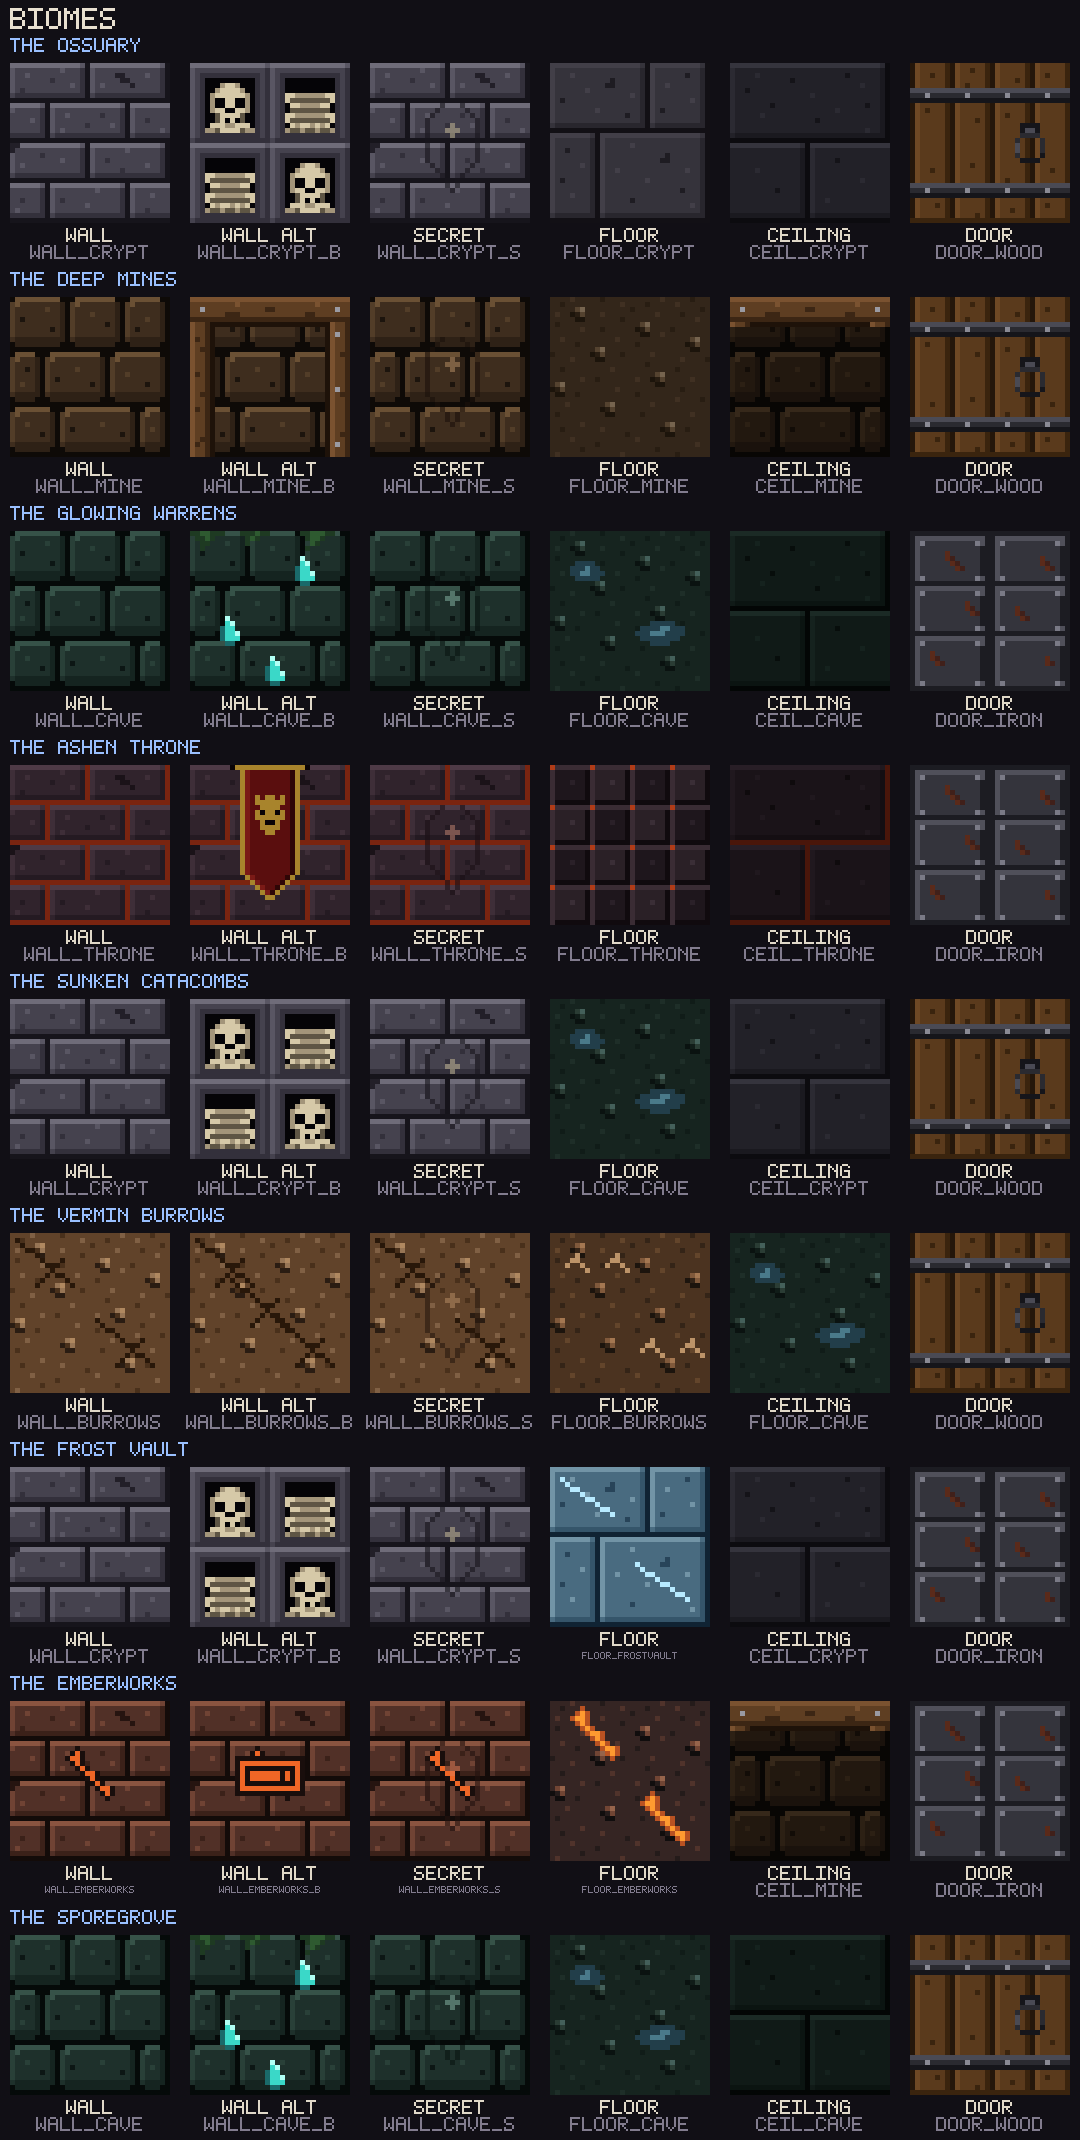
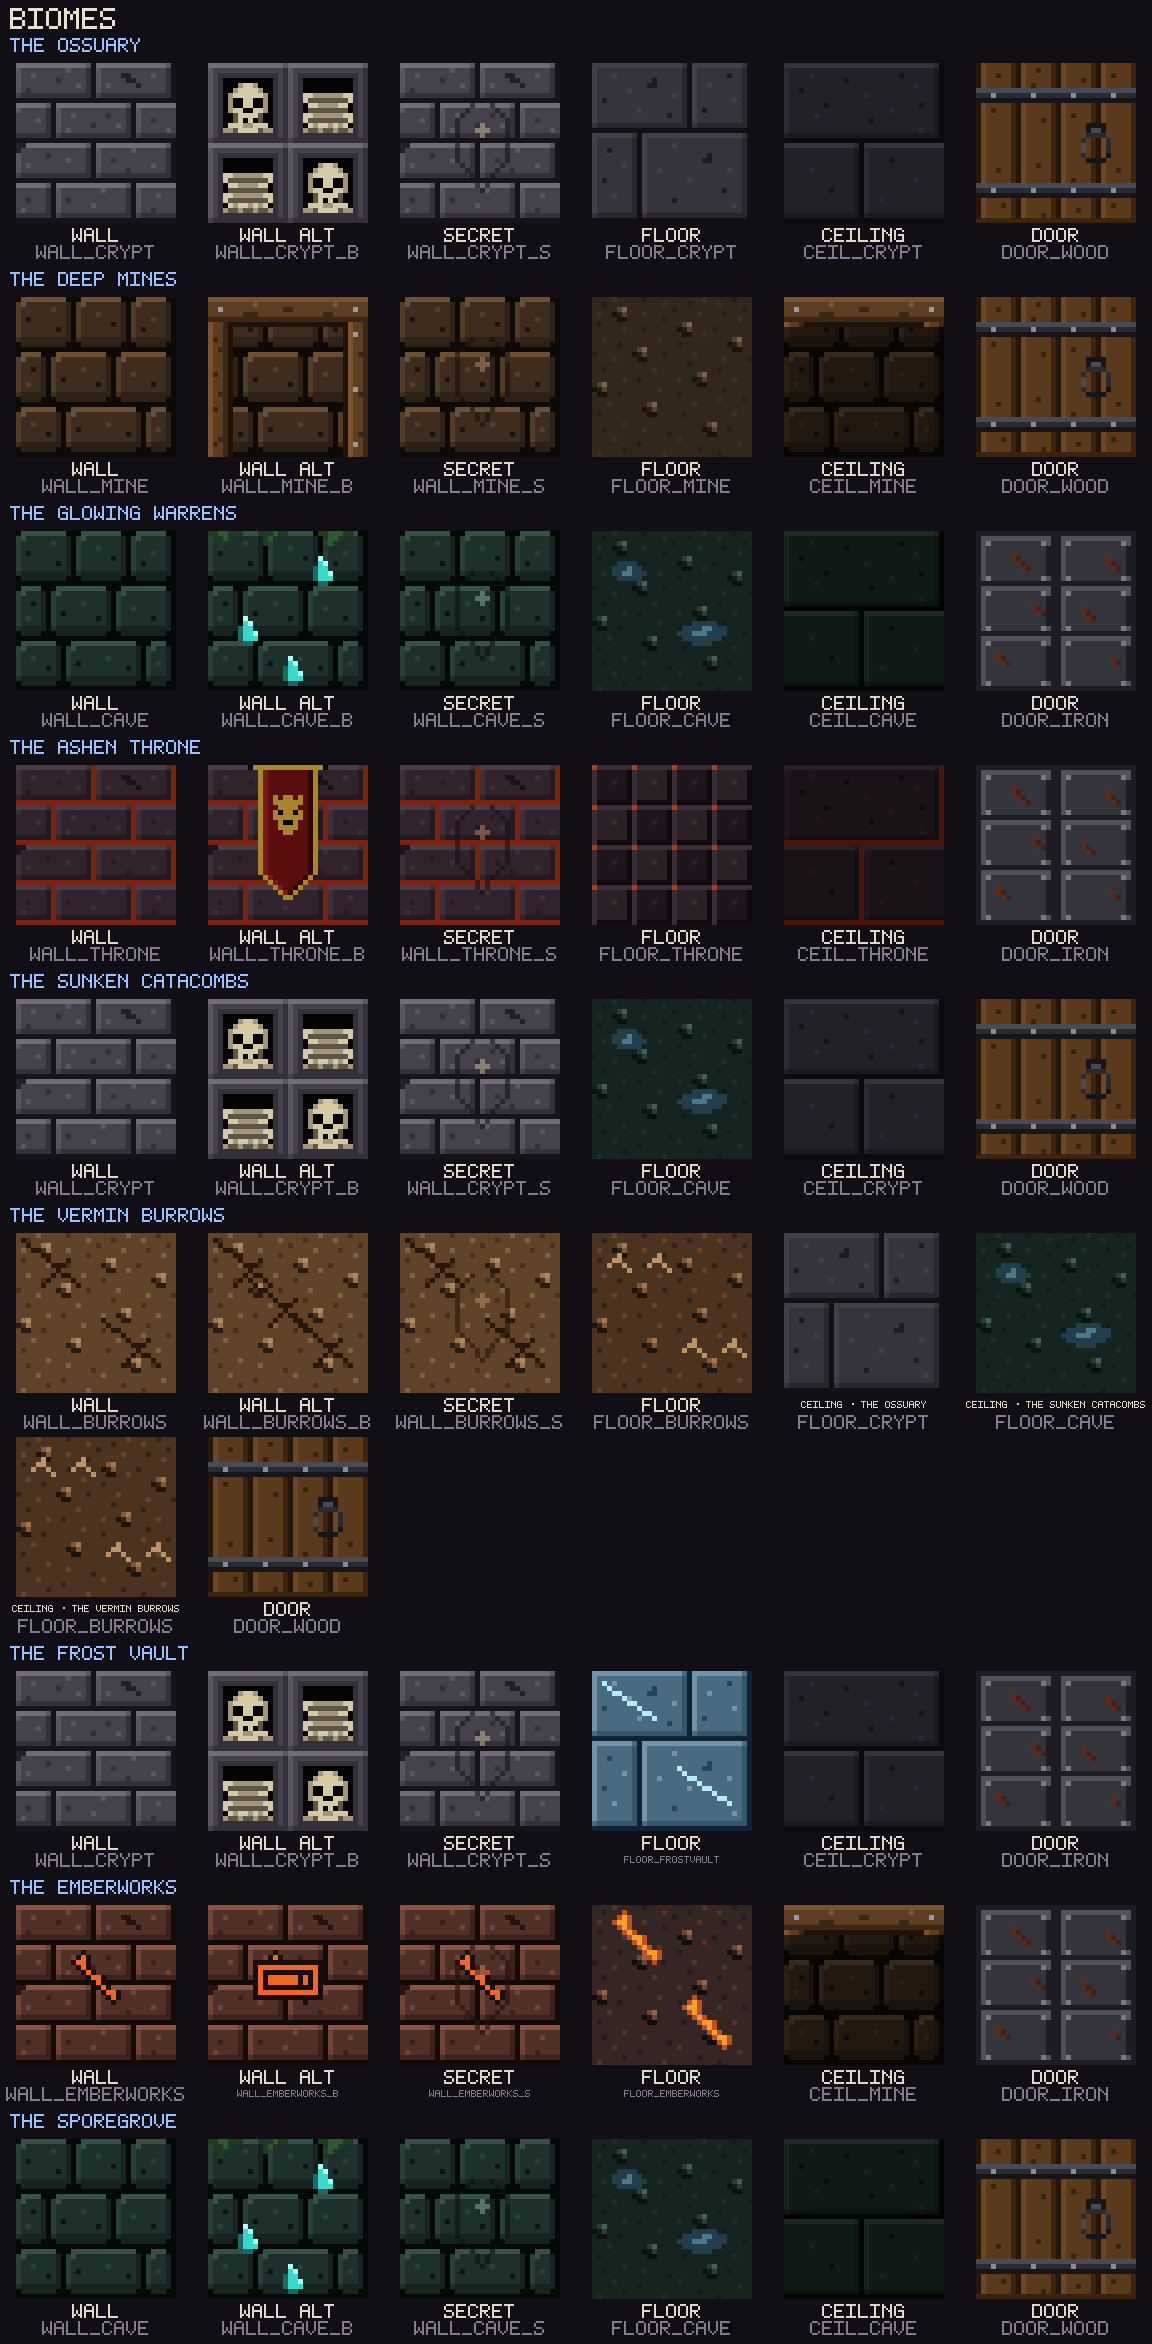
Use the preceding floor texture above Burrows

diff --git a/src/__tests__/biome-variety.test.ts b/src/__tests__/biome-variety.test.ts
@@ -1,5 +1,5 @@
 import { describe, expect, it } from 'vitest';
-import { BIOMES, biomeForDepth, biomeForFloor } from '../data/biomes';
+import { BIOMES, biomeForDepth, biomeForFloor, ceilingForFloor } from '../data/biomes';
 import { getArt } from '../art/registry';
 import { rasterize } from '../art/raster';
 import { generateFloor } from '../systems/dungeon';
@@ -32,9 +32,13 @@ describe('run biome variety', () => {
     expect(BIOMES.find((b) => b.id === 'burrows')!.wall).not.toBe(BIOMES.find((b) => b.id === 'emberworks')!.wall);
   });
 
-  it('carries the preceding catacombs floor into the burrows roof', () => {
-    const catacombs = BIOMES.find((b) => b.id === 'catacombs')!;
+  it('carries whatever preceding floor texture exists into the burrows roof', () => {
     const burrows = BIOMES.find((b) => b.id === 'burrows')!;
-    expect(burrows.ceiling).toBe(catacombs.floor);
+    const crypt = BIOMES.find((b) => b.id === 'crypt')!;
+    const catacombs = BIOMES.find((b) => b.id === 'catacombs')!;
+    const current = { biome: burrows.id, depth: 2 };
+    expect(ceilingForFloor(current, { biome: crypt.id, depth: 1 })).toBe(crypt.floor);
+    expect(ceilingForFloor(current, { biome: catacombs.id, depth: 1 })).toBe(catacombs.floor);
+    expect(ceilingForFloor(current)).toBe(burrows.ceiling);
   });
 });

diff --git a/src/data/biomes.ts b/src/data/biomes.ts
@@ -60,6 +60,8 @@ export const BIOMES: BiomeDef[] = [
   {
     id: 'burrows', name: 'The Vermin Burrows', depths: [1, 2, 3],
     wall: 'wall_burrows', wallAlt: 'wall_burrows_b', wallSecret: 'wall_burrows_s',
+    // Burrows inherit the preceding floor's ground texture at render time.
+    // Keep a cave floor as the depth-1 fallback, where no preceding floor exists.
     floor: 'floor_burrows', ceiling: 'floor_cave', door: 'door_wood',
     fog: '#0e0904', ambient: '#3a2b1a', torch: '#ffbb70', torchDensity: 0.055,
     favoredEnemies: ['rat', 'bat', 'spider', 'goblin', 'tunnel_stalker'],
@@ -96,4 +98,13 @@ export function biomeForDepth(depth: number, seed?: number): BiomeDef {
 
 export function biomeForFloor(floor: { biome: string; depth: number }): BiomeDef {
   return BIOMES.find((b) => b.id === floor.biome) ?? biomeForDepth(floor.depth);
+}
+
+/** The roof texture for a floor, including the Burrows' transition from above. */
+export function ceilingForFloor(
+  floor: { biome: string; depth: number },
+  previous?: { biome: string; depth: number },
+): string {
+  const biome = biomeForFloor(floor);
+  return biome.id === 'burrows' && previous ? biomeForFloor(previous).floor : biome.ceiling;
 }

diff --git a/src/render/level-mesh.ts b/src/render/level-mesh.ts
@@ -95,8 +95,9 @@ function hash3(x: number, y: number, d: number): number {
   return (((x * 73856093) ^ (y * 19349663) ^ (d * 83492791)) >>> 0) % 100;
 }
 
-export function buildLevel(floor: Floor, shared: Shared): LevelView {
+export function buildLevel(floor: Floor, shared: Shared, ceilingTexture?: string): LevelView {
   const biome = biomeForFloor(floor);
+  const ceiling = ceilingTexture ?? biome.ceiling;
   const builders = new Map<string, Builder>();
   const B = (tex: string) => {
     let b = builders.get(tex);
@@ -138,7 +139,7 @@ export function buildLevel(floor: Floor, shared: Shared): LevelView {
       }
 
       B(biome.floor).quad([x0, 0, z0], [x1, 0, z0], [x1, 0, z1], [x0, 0, z1], [0, 1, 0]);
-      B(biome.ceiling).quad([x0, WALL_H, z0], [x1, WALL_H, z0], [x1, WALL_H, z1], [x0, WALL_H, z1], [0, -1, 0]);
+      B(ceiling).quad([x0, WALL_H, z0], [x1, WALL_H, z0], [x1, WALL_H, z1], [x0, WALL_H, z1], [0, -1, 0]);
 
       if (t === PILLAR) {
         const p = 0.42 * TILE;

diff --git a/src/dev/art-sheets.ts b/src/dev/art-sheets.ts
@@ -138,6 +138,17 @@ function creatureGroup(title: string, cls: CreatureClass): SheetGroup {
   };
 }
 
+function biomeCeilings(b: (typeof BIOMES)[number]): SheetCell[] {
+  if (b.id !== 'burrows') return [{ id: b.ceiling, label: 'ceiling' }];
+
+  const inherited = new Map<string, string>();
+  for (const previous of BIOMES) {
+    const canPrecede = b.depths.some((depth) => depth > 1 && previous.depths.includes(depth - 1));
+    if (canPrecede) inherited.set(previous.floor, previous.name);
+  }
+  return [...inherited].map(([id, name]) => ({ id, label: `ceiling · ${name}` }));
+}
+
 const biomeGroups: SheetGroup[] = BIOMES.map((b) => ({
   title: b.name,
   cells: [
@@ -145,7 +156,7 @@ const biomeGroups: SheetGroup[] = BIOMES.map((b) => ({
     { id: b.wallAlt, label: 'wall alt' },
     { id: b.wallSecret, label: 'secret' },
     { id: b.floor, label: 'floor' },
-    { id: b.ceiling, label: 'ceiling' },
+    ...biomeCeilings(b),
     { id: b.door, label: 'door' },
   ],
 }));

diff --git a/src/render/dungeon-renderer.ts b/src/render/dungeon-renderer.ts
@@ -1,6 +1,6 @@
 import * as THREE from 'three';
 import { DX, DY, turnRight } from '../core/dir';
-import { biomeForFloor } from '../data/biomes';
+import { biomeForFloor, ceilingForFloor } from '../data/biomes';
 import { enemyDef, enemyView } from '../data/enemies';
 import { findMaterial } from '../data/materials';
 import { Floor, ShrineKind } from '../systems/dungeon';
@@ -168,7 +168,8 @@ export class DungeonRenderer {
         this.scene.remove(this.level.root);
         this.level.dispose();
       }
-      this.level = buildLevel(floor, this.shared);
+      const previous = world.run.floors[world.run.depth - 2];
+      this.level = buildLevel(floor, this.shared, ceilingForFloor(floor, previous ?? undefined));
       this.levelFloor = floor;
       this.trapTriggeredAt.clear();
       this.scene.add(this.level.root);

diff --git a/src/__tests__/art.test.ts b/src/__tests__/art.test.ts
@@ -129,6 +129,13 @@ describe('pixel art', () => {
     }
   });
 
+  it('shows every possible Burrows transition ceiling on the biome sheet', () => {
+    const burrows = sheets().find((s) => s.id === 'biomes')!.groups.find((g) => g.title === 'The Vermin Burrows')!;
+    expect(burrows.cells.map((cell) => cell.id)).toEqual(expect.arrayContaining([
+      'floor_crypt', 'floor_cave', 'floor_burrows',
+    ]));
+  });
+
   /**
    * The icon sheet claims every cell is something the game can actually make.
    * If a base were ever drawn in a material its `primary` categories forbid,
